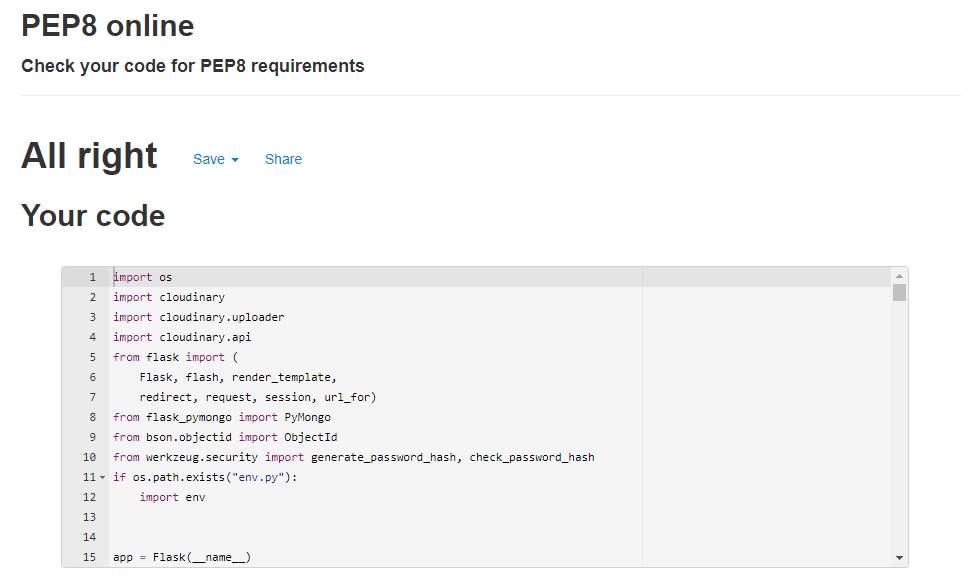
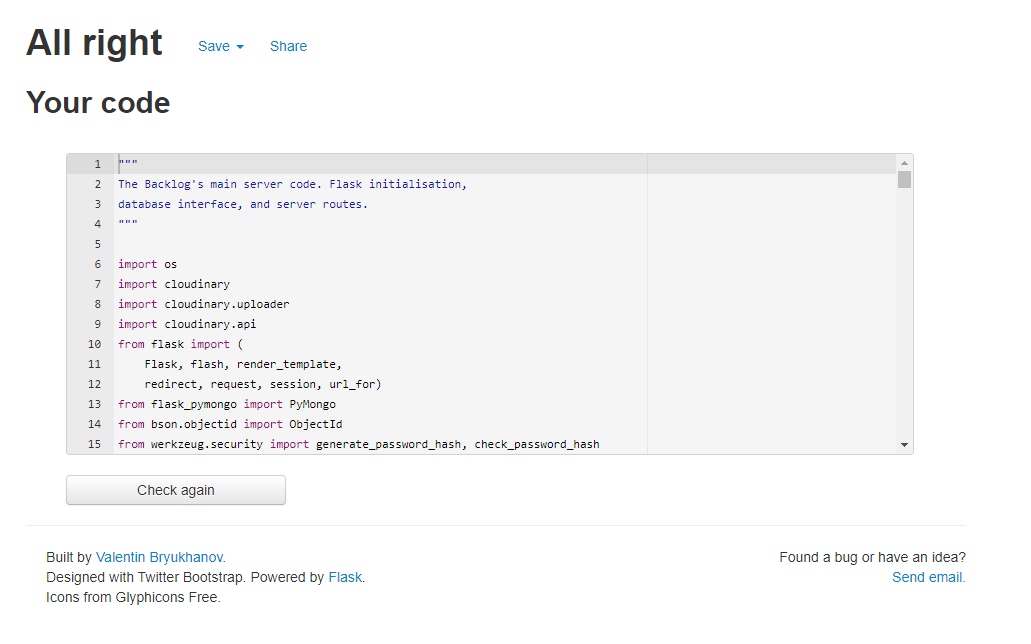
tested PEP8 once again after adding new lines of code

diff --git a/README.md b/README.md
@@ -264,14 +264,14 @@ On this site you will be able to keep track on your gaming, add the games you ha
 ---
 -   [W3C Markup Validator](https://validator.w3.org/nu/?doc=http%3A%2F%2Fbacklog-gamesite.herokuapp.com%2F)
 -   [W3C CSS Validator](https://jigsaw.w3.org/css-validator/#validate_by_input) 
-    -   [No Error Found](static/img/img-readme/cssValidation.png)
-    -   [Warnings](static/img/img-readme/cssWarning.png)
+    -   [No Error Found](img-readme/cssValidation.png)
+    -   [Warnings](img-readme/cssWarning.png)
 
 - [PEP8 Online](http://pep8online.com/) - Validation for Python Code
-    - [Results](static/img/img-readme/pep8.png)
+    - [Results](img-readme/pep8.png)
 
 - [JSHint](https://jshint.com/) - Validation for JavaScript code. 
-    - [Results](static/img/img-readme/jshint.png)
+    - [Results](img-readme/jshint.png)
 ### Lighthouse Testing
 
 --- 
